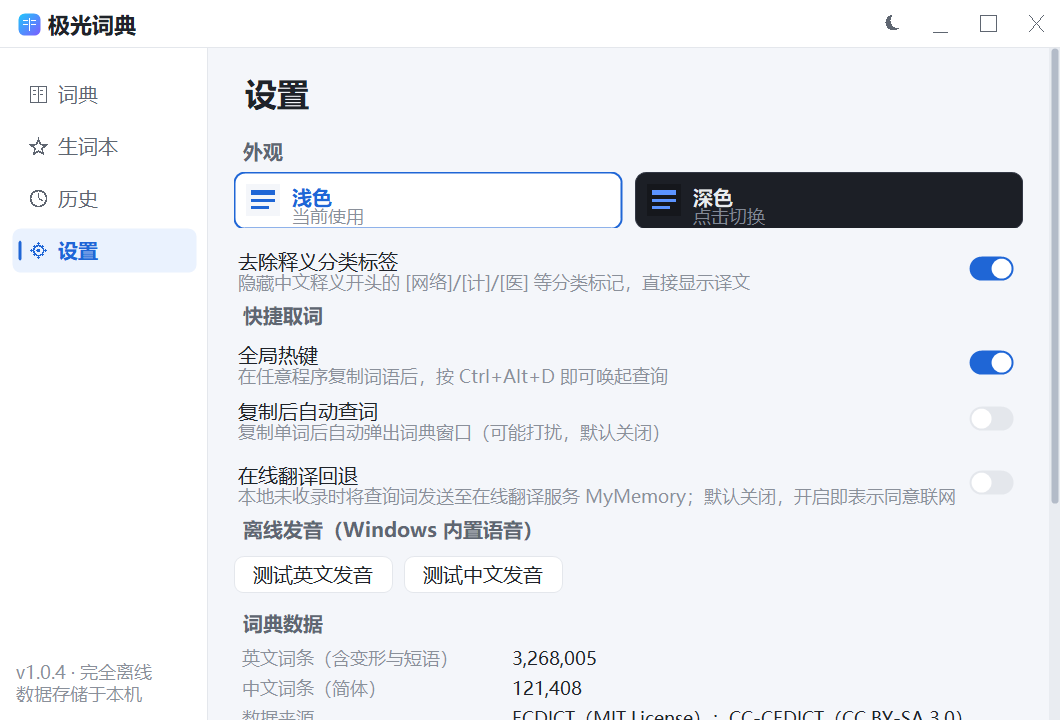
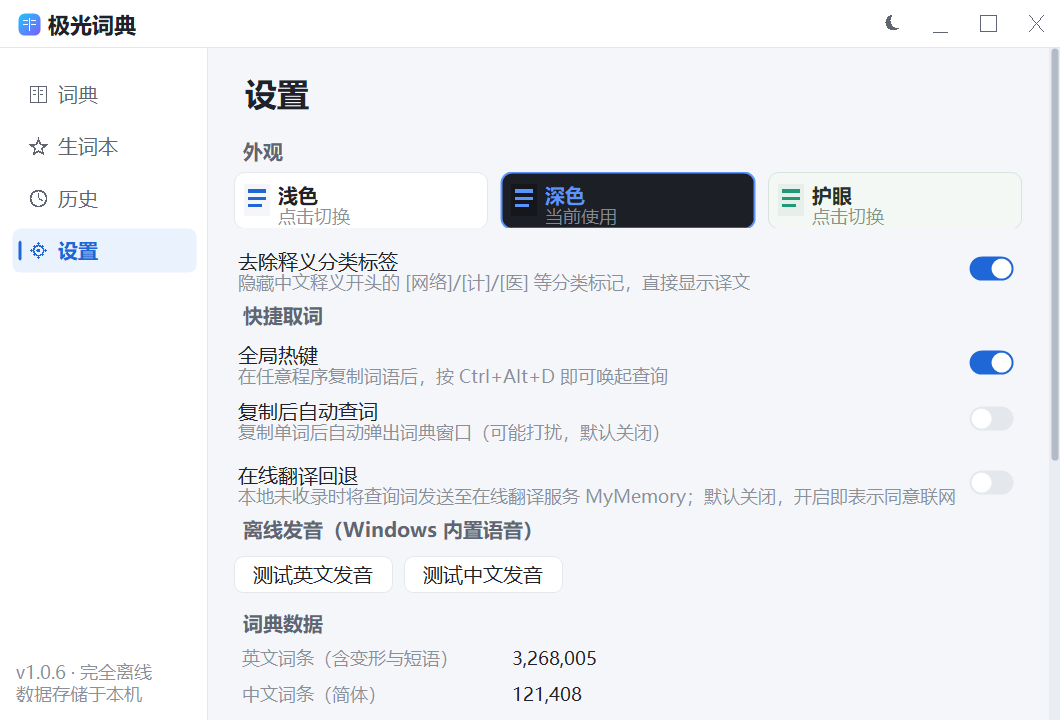
v1.0.6：主页更新——新增护眼主题、三套主题介绍与最新截图、自动去MOTW说明
- 版本徽章更新至 v1.0.6
- 截图替换为最新版：computer 查询主图 + 浅色/深色/护眼首页 + 设置页
- 特性「全新界面·深浅色」更新为「三套主题·护眼」
- 补充程序运行即自动解除自身网络标记（MOTW）说明

diff --git a/index.html b/index.html
@@ -94,7 +94,7 @@
     box-shadow:0 30px 80px rgba(0,0,0,.6),0 0 0 1px rgba(255,255,255,.03);
     display:block;width:100%;height:auto;
   }
-  .gallery{display:grid;grid-template-columns:repeat(3,1fr);gap:22px;margin-top:26px}
+  .gallery{display:grid;grid-template-columns:repeat(2,1fr);gap:22px;margin-top:26px}
   .gallery .shot{border-radius:12px}
 
   /* sections */
@@ -164,7 +164,7 @@
 <header class="hero">
   <div class="glow"></div>
   <div class="wrap">
-    <span class="badge"><span class="dot"></span>v1.0.5 现已发布 · Windows 10 / 11</span>
+    <span class="badge"><span class="dot"></span>v1.0.6 现已发布 · Windows 10 / 11</span>
     <h1>完全离线的<br><span class="g">英汉 · 汉英桌面词典</span></h1>
     <p class="sub">单文件、免安装、零运行库依赖。内置 326 万英文词条与 12 万中文词条，自研检索内核毫秒响应；在线翻译与自动更新为可选功能、默认关闭，按需一键开启。</p>
     <div class="cta">
@@ -176,11 +176,12 @@
 </header>
 
 <div class="wrap shotwrap" id="screens">
-  <img class="shot" src="screens/light_en.png" alt="极光词典主界面：英文单词 abandon 的详细解释卡片" loading="lazy">
+  <img class="shot" src="screens/computer.png" alt="极光词典主界面：英文单词 computer 的详细解释卡片，含音标、考试标签、复数与中英双解释义" loading="lazy">
   <div class="gallery">
-    <img class="shot" src="screens/dark_en.png" alt="深色主题查询 serendipity" loading="lazy">
-    <img class="shot" src="screens/zh.png" alt="中文成语查询" loading="lazy">
-    <img class="shot" src="screens/settings.png" alt="设置页面" loading="lazy">
+    <img class="shot" src="screens/light.png" alt="浅色主题首页：产品介绍与数据统计" loading="lazy">
+    <img class="shot" src="screens/dark.png" alt="深色主题首页" loading="lazy">
+    <img class="shot" src="screens/green.png" alt="护眼青绿主题，长时间阅读更柔和" loading="lazy">
+    <img class="shot" src="screens/settings.png" alt="设置页面：三套主题切换与各项偏好" loading="lazy">
   </div>
 </div>
 
@@ -198,7 +199,7 @@
       <div class="feat"><div class="ic">🔄</div><h3>自动更新</h3><p>默认关闭；可手动检查或开启启动检查，下载经 SHA256 校验、更新前备份、失败回滚，并自动解除网络标记。</p></div>
       <div class="feat"><div class="ic">🃏</div><h3>生词本复习</h3><p>一键收藏生词，闪卡复习巩固，支持导出纯文本与 Anki 牌组格式。</p></div>
       <div class="feat"><div class="ic">🔊</div><h3>离线发音</h3><p>英文、中文双语音，基于 Windows 内置语音合成，无需联网即可朗读。</p></div>
-      <div class="feat"><div class="ic">🎨</div><h3>全新界面 · 深浅色</h3><p>v1.0.4 整体排版重设计，双击标题栏即可最大化；浅色/深色主题，支持全局热键 Ctrl+Alt+D。</p></div>
+      <div class="feat"><div class="ic">🎨</div><h3>三套主题 · 护眼</h3><p>浅色 / 深色 / 护眼青绿一键切换，滚动条随主题变色；排版疏朗，支持全局热键 Ctrl+Alt+D。</p></div>
     </div>
   </div>
 </section>
@@ -222,7 +223,7 @@
         <a class="btn btn-primary" href="https://github.com/haoeastspeed/AuroraDict/releases/latest" target="_blank" rel="noopener">⬇ 下载最新版本</a>
         <a class="btn btn-ghost" href="https://github.com/haoeastspeed/AuroraDict/releases" target="_blank" rel="noopener">所有版本</a>
       </div>
-      <p class="req">系统要求：Windows 10 / 11（32 位与 64 位均可，亦兼容 Win7 / 8.1）· 需 .NET Framework 4.5+（Win10/11 自带 4.8）· 约 103 MB<br>国内直连 GitHub 较慢，建议开启本地 / 系统代理；自动更新会依次尝试直连、系统代理与 127.0.0.1:7890。</p>
+      <p class="req">系统要求：Windows 10 / 11（32 位与 64 位均可，亦兼容 Win7 / 8.1）· 需 .NET Framework 4.5+（Win10/11 自带 4.8）· 约 103 MB<br>v1.0.6 起程序运行即自动解除自身网络标记（MOTW），避免 SmartScreen 拦截；国内直连 GitHub 较慢，建议开启本地 / 系统代理；自动更新会依次尝试直连、系统代理与 127.0.0.1:7890。</p>
     </div>
   </div>
 </section>
